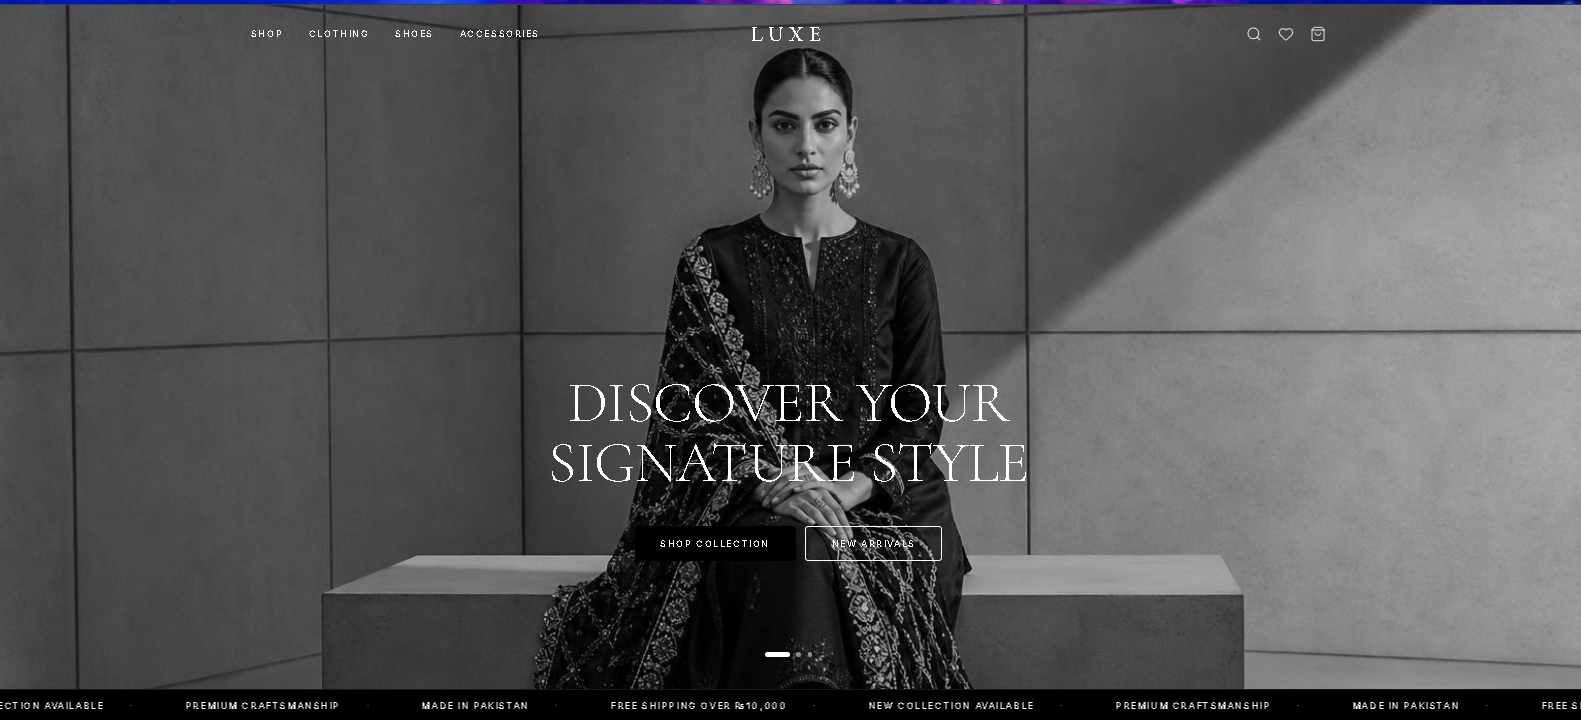
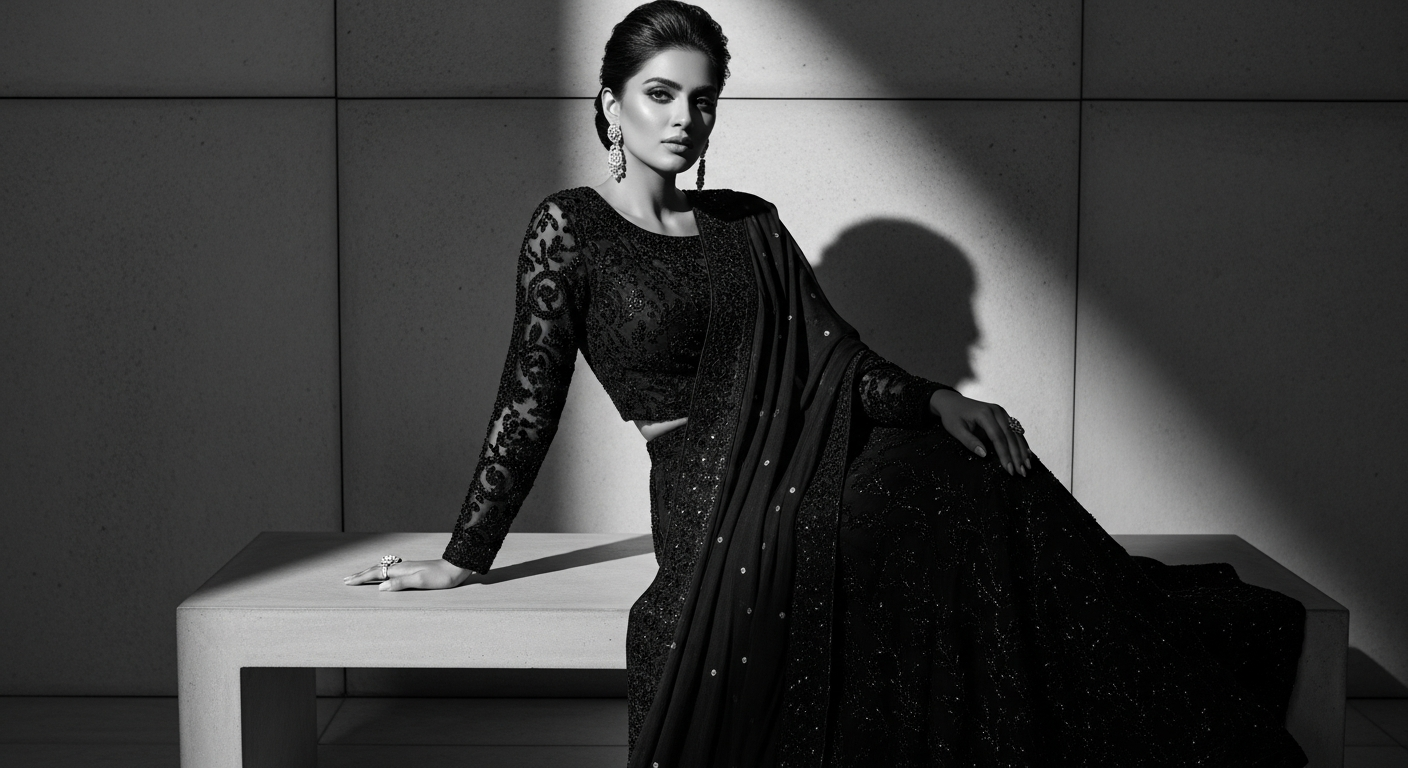
Update website hero images and improve slideshow display
Replace screenshot images with AI-generated fashion visuals and remove redundant grayscale filter for cleaner display.

Replit-Commit-Author: Agent
Replit-Commit-Session-Id: 47bbc2bb-f489-45d0-b4f8-f537f259c0bb
Replit-Commit-Checkpoint-Type: full_checkpoint
Replit-Commit-Event-Id: d58f9d41-8b1f-4ea2-8a98-b78d4782bafd
Replit-Commit-Screenshot-Url: https://storage.googleapis.com/screenshot-production-us-central1/ca815717-aaa9-4289-99e2-ae573f9845eb/47bbc2bb-f489-45d0-b4f8-f537f259c0bb/AmHQCCF
Replit-Helium-Checkpoint-Created: true

diff --git a/artifacts/aurum/src/pages/Home.tsx b/artifacts/aurum/src/pages/Home.tsx
@@ -99,7 +99,7 @@ export default function Home() {
             <img
               src={slides[currentSlide].image}
               alt=""
-              className="w-full h-full object-cover object-top grayscale"
+              className="w-full h-full object-cover object-top"
               draggable={false}
             />
             <div className="absolute inset-0 bg-black/55" />